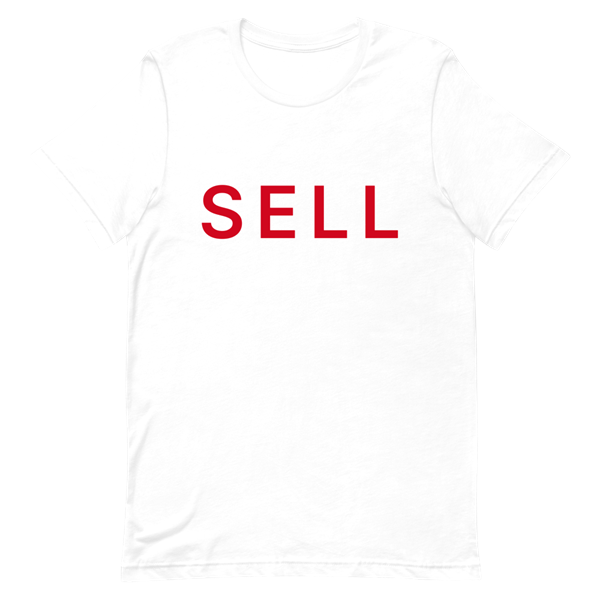
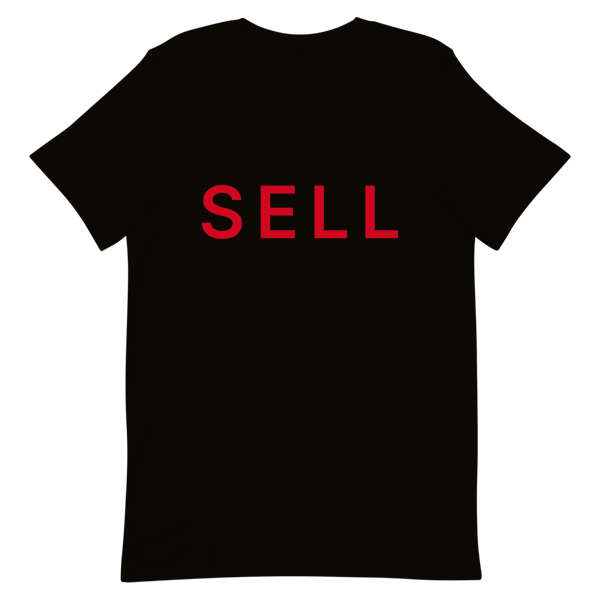
Update NFC South shirt colors

diff --git a/lib/teams.ts b/lib/teams.ts
@@ -197,12 +197,15 @@ const BASE_TEAMS: Team[] = ROWS.map(([slug, division, market, nickname, city, sh
 // Most originals use white ink; the AFC North originals retain their chosen
 // black, orange, and metallic-gold print colors. New England uses Nautical Blue.
 const ALTERNATE_TEE_BLANK: Record<string, string> = {
+  "nfl-atlanta": "Black",
   "nfl-baltimore": "Black",
   "nfl-buffalo": "Red",
   "nfl-cincinnati": "Black",
+  "nfl-carolina": "Black",
   "nfl-chicago": "Orange",
   "nfl-dallas": "Navy",
   "nfl-green-bay": "Gold",
+  "nfl-new-orleans": "Black",
   "nfl-cleveland": "Orange",
   "nfl-houston": "Red",
   "nfl-jacksonville": "Black",
@@ -215,6 +218,7 @@ const ALTERNATE_TEE_BLANK: Record<string, string> = {
   "nfl-new-york-green": "Kelly",
   "nfl-pittsburgh": "Black",
   "nfl-minnesota": "Team Purple",
+  "nfl-tampa-bay": "Orange",
   "nfl-philadelphia": "Forest",
 };
 const ALTERNATE_HOODIE_BLANK: Record<string, string> = {

diff --git a/lib/products.ts b/lib/products.ts
@@ -77,6 +77,13 @@ export function colorHex(team: Team, style: Style): string {
 }
 
 const TEE_PRINT_OVERRIDES: Record<string, { name: string; hex: string }> = {
+  "nfl-atlanta": { name: "black", hex: "#000000" },
+  "nfl-carolina": { name: "black", hex: "#000000" },
+  "nfl-carolina-alternate-one": { name: "process blue", hex: "#0085CA" },
+  "nfl-new-orleans": { name: "black", hex: "#000000" },
+  "nfl-new-orleans-alternate-one": { name: "gold", hex: "#C5A253" },
+  "nfl-tampa-bay": { name: "black", hex: "#000000" },
+  "nfl-tampa-bay-alternate-one": { name: "black", hex: "#000000" },
   "nfl-chicago": { name: "orange", hex: "#FF6F00" },
   "nfl-green-bay": { name: "gold", hex: "#C5A253" },
   "nfl-minnesota-alternate-one": { name: "gold", hex: "#C5A253" },

diff --git a/lib/art.ts b/lib/art.ts
@@ -1,5 +1,5 @@
 // Bump when the shirt artwork or photos change: Printful caches print files by
 // URL and next/image caches optimized photos by URL, so a new number makes
 // both fetch fresh copies.
-export const ART_VERSION = 37;
+export const ART_VERSION = 38;
 
